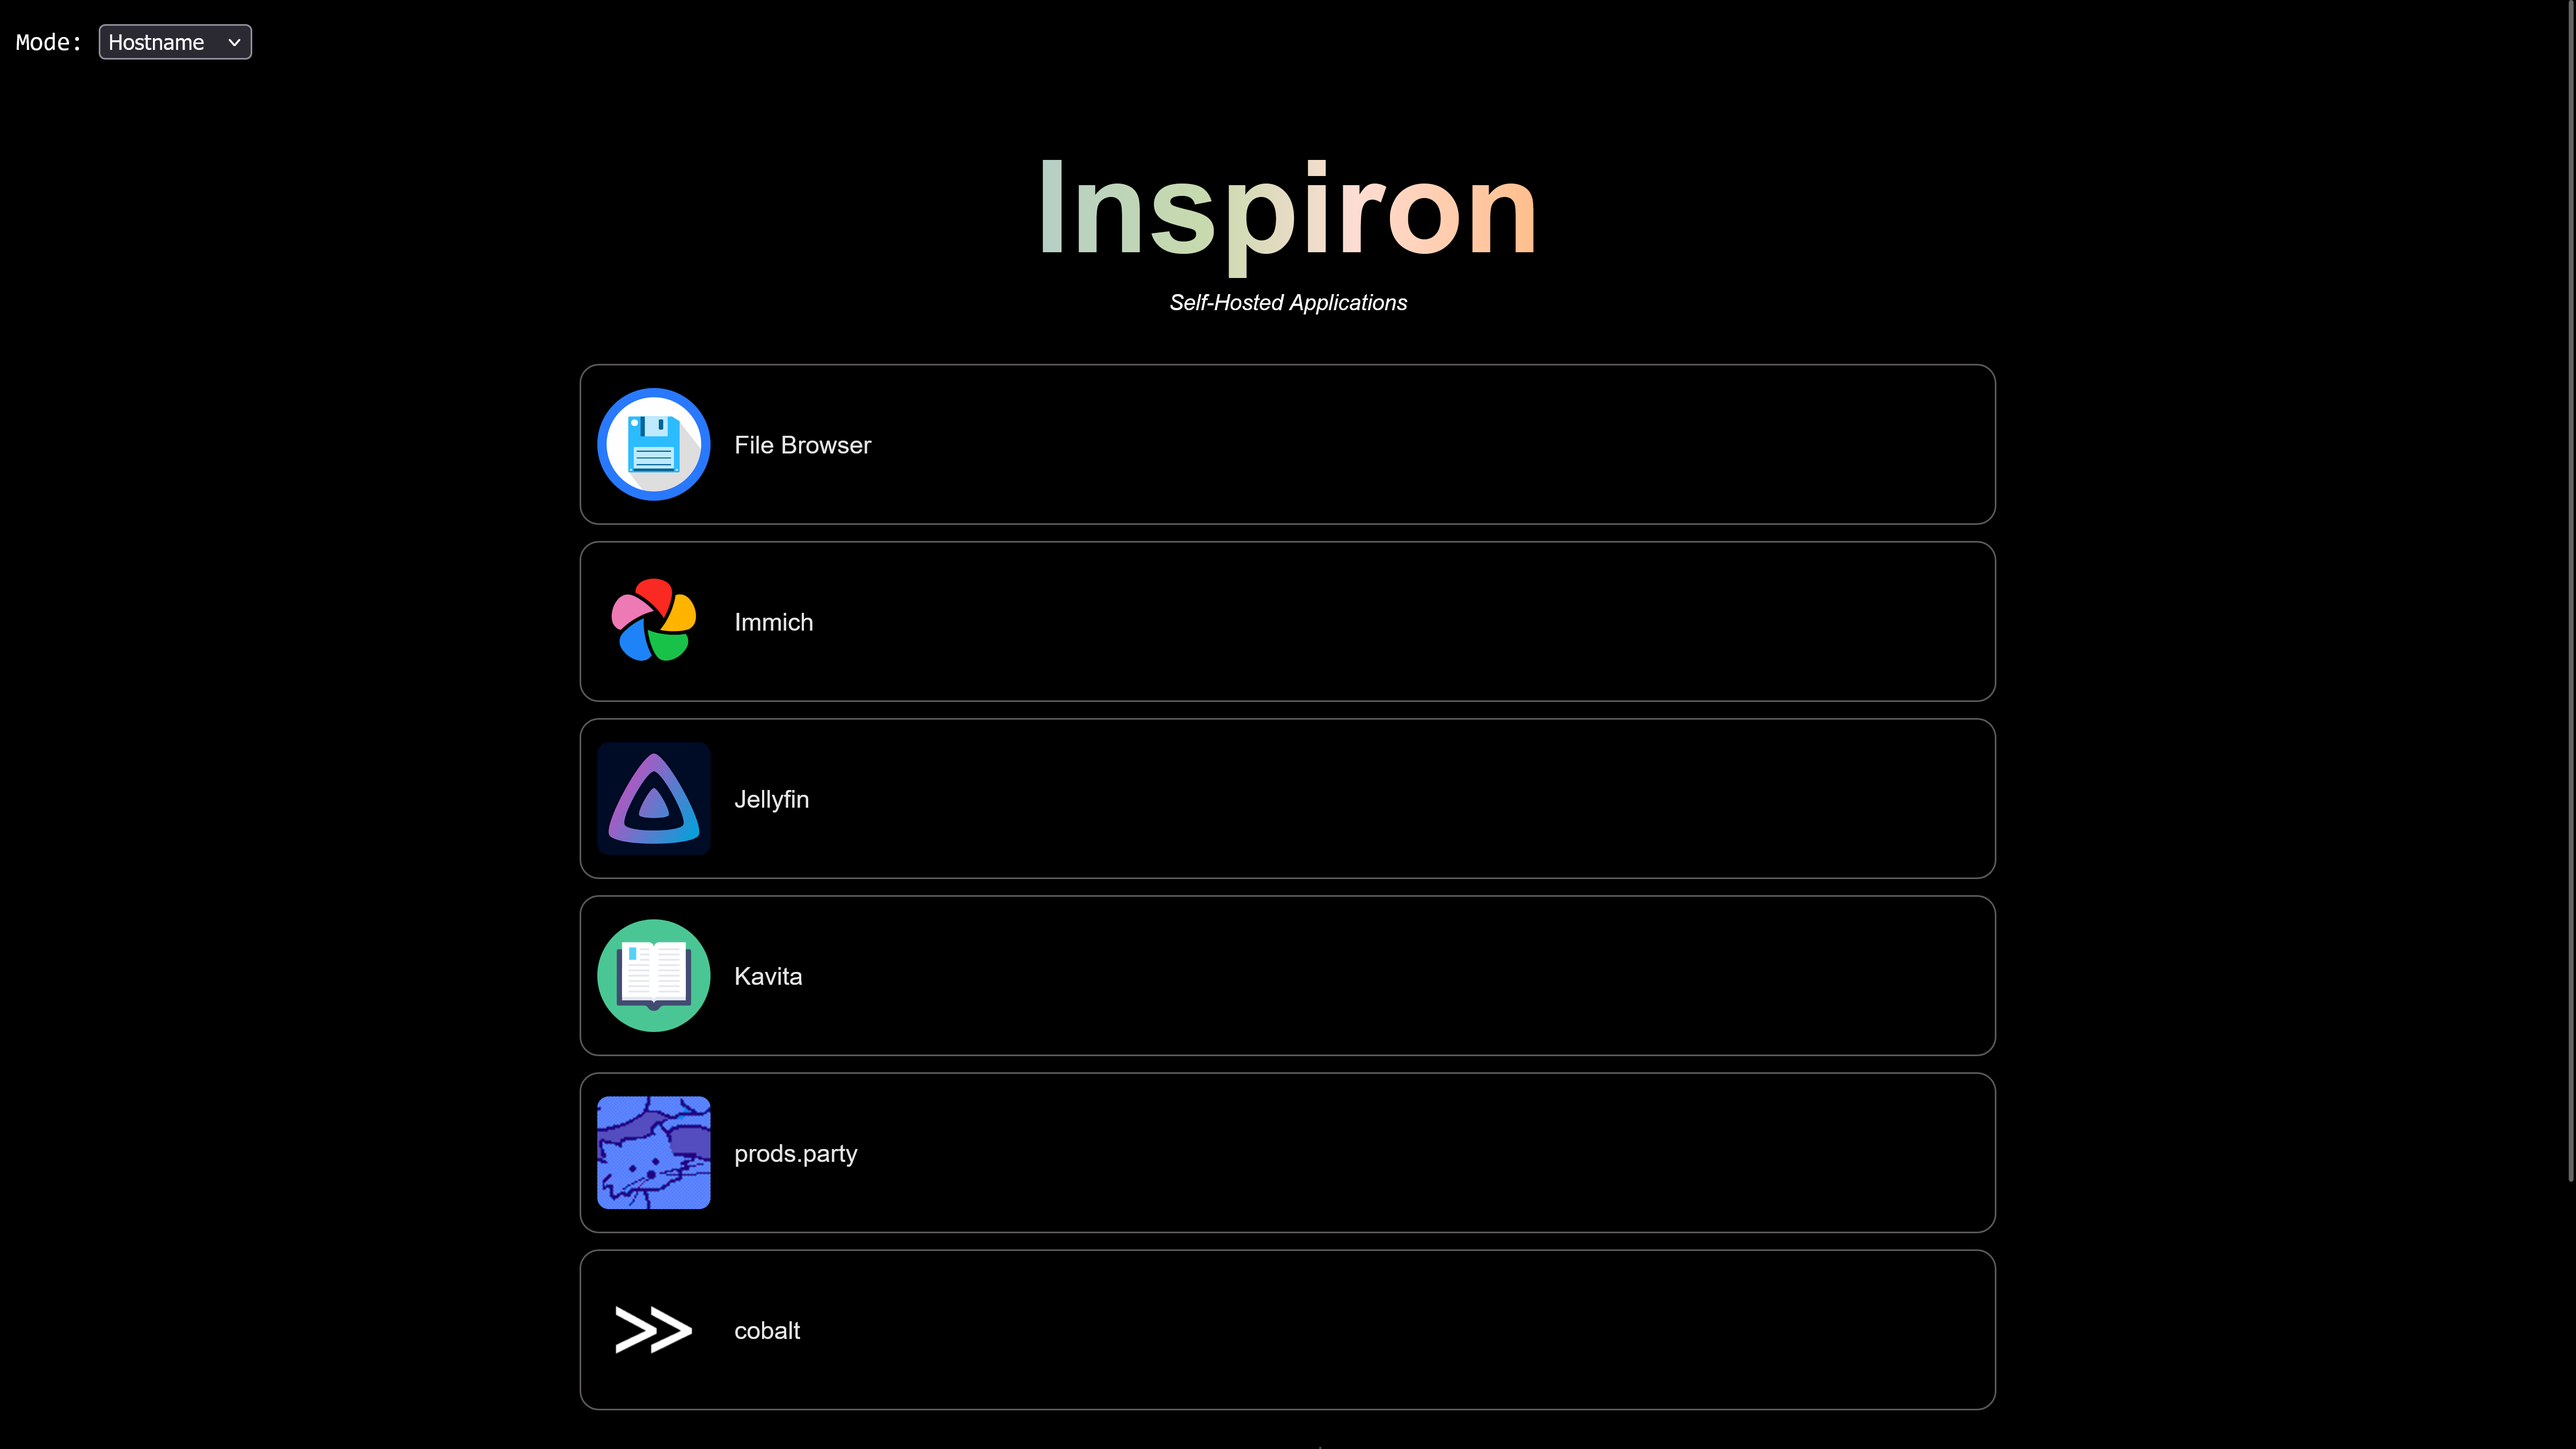
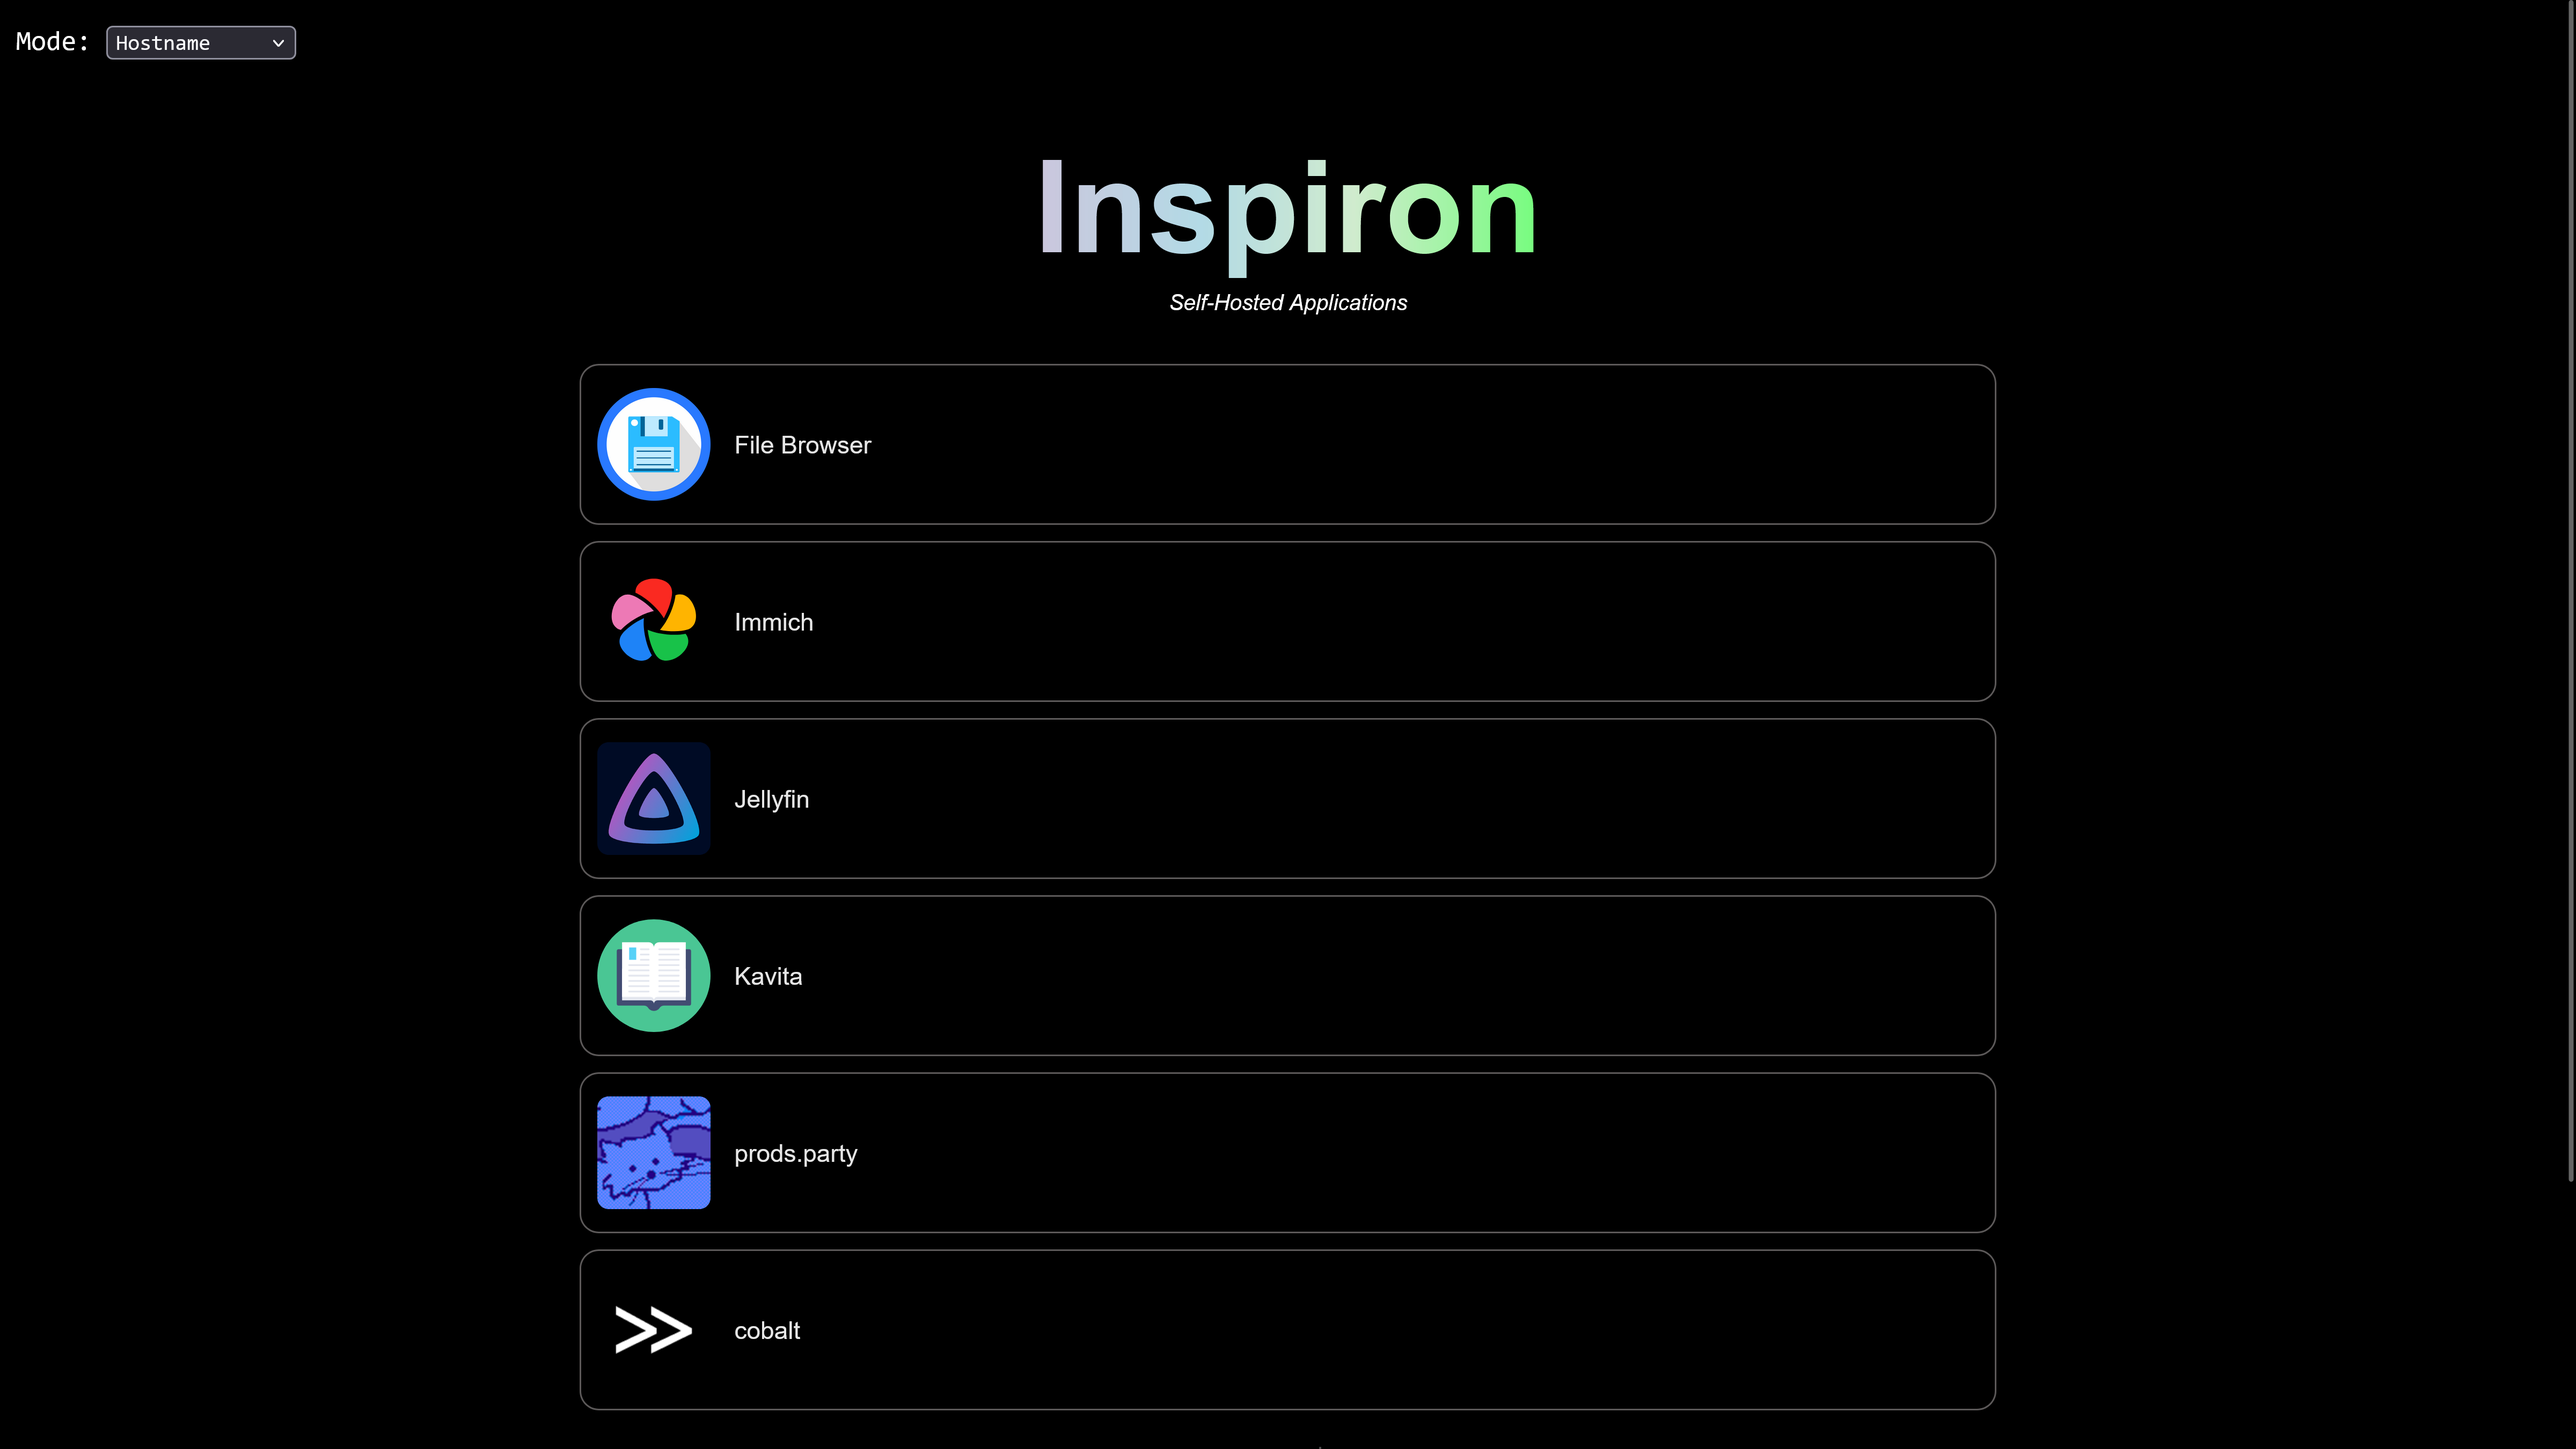
Updates

Changed region(s): [[0.4062, 0.1244, 0.5938, 0.1867], [0.0, 0.0, 0.125, 0.0622]]

diff --git a/server.js b/server.js
@@ -14,6 +14,7 @@ const hostname = Deno.hostname();
 // If you want to use hostname.local instead, replace above line with this
 // const hostname = Deno.hostname() + ".local";
 
+const yourDomain = "ryaan.win";
 const privateIp = Deno.networkInterfaces().find(
   (e) => e.name.substring(0, 3) === "enp" && e.family === "IPv4"
 ).address;
@@ -86,6 +87,7 @@ app.get("/getRoutes", async (req, res) => {
     e.lan = `http://${privateIp}:${e.port}`;
     e.ts = `http://${tailnetIp}:${e.port}`;
     e.hn = `http://${hostname}:${e.port}`;
+    e.dom = `https://${e.shorthand}.${yourDomain}`;
     return e;
   });
   res.status(200).json({

diff --git a/public/style.css b/public/style.css
@@ -75,6 +75,10 @@ body {
   font-family: monospace;
 }
 
+#modes select {
+  font-family: monospace;
+}
+
 #albums {
   width: 100%;
   max-width: 900px;

diff --git a/README.md b/README.md
@@ -3,14 +3,15 @@
 ![A screenshot of the dlauncher dashboard](./screenshot.png)
 
 [prods.party](https://github.com/rahmed29/prods.party) repurposed into a dead simple app launcher / dashboard / directory for self-hosted
-applications running on my Dell Inspiron 3847 that I use as a home server.
+applications that I connect to over LAN or Tailscale.
 
-dlauncher lets the user decide how links to their applications should be displayed, they can choose from 3 different options:
+dlauncher provides 6 different ways to display links to applications:
 
-1. One link, `private-ip:port`, this is the default and is ideal if you have subnet routing enabled on your Tailnet
+1. One link, `private-ip:port`. This is the default and is ideal if you have subnet routing enabled on your Tailnet
 2. One link, `tailscale-ip:port`
-3. One link, `server-hostname:port`, this works if your device can resolve the server's hostname
-4. One link, that dyanmically routes your request to either of the first 2 based on your connecting IP. This is useful if you do not have subnet routing enabled on your Tailnet. If you are connecting to the launcher using your server's private IP or Tailscale IP, this option is of no use.
+3. One link, `server-hostname:port`. This works if your device can resolve the server's hostname
+4. One link, `dlauncher.yourdomain.com/app-name`, that dyanmically routes your request to either of the first 2 based on your connecting IP. This is useful if you do not have subnet routing enabled on your Tailnet. If you are connecting to the launcher using your server's private IP or Tailscale IP, this option is of no use.
 5. Two links, one for `private-ip:port` and one for `tailscale-ip:port`. This is useful if you do not have subnet routing enabled on your tailnet and are using a VPN or proxy that masks your connecting IP (iCloud Private Relay, etc.)
+6. One link, `app-name.yourdomain.com`. This is useful if your applications are publicly available
 
-Just run `deno -P server.js` and you'll be good to go! Of course, if you're not me you'll need to modify the `routes` object in `server.js`.
+Just run `deno -P server.js` and you'll be good to go! The server runs on port `2077`. Of course, if you're not me you'll need to modify the `routes` object in `server.js`.
